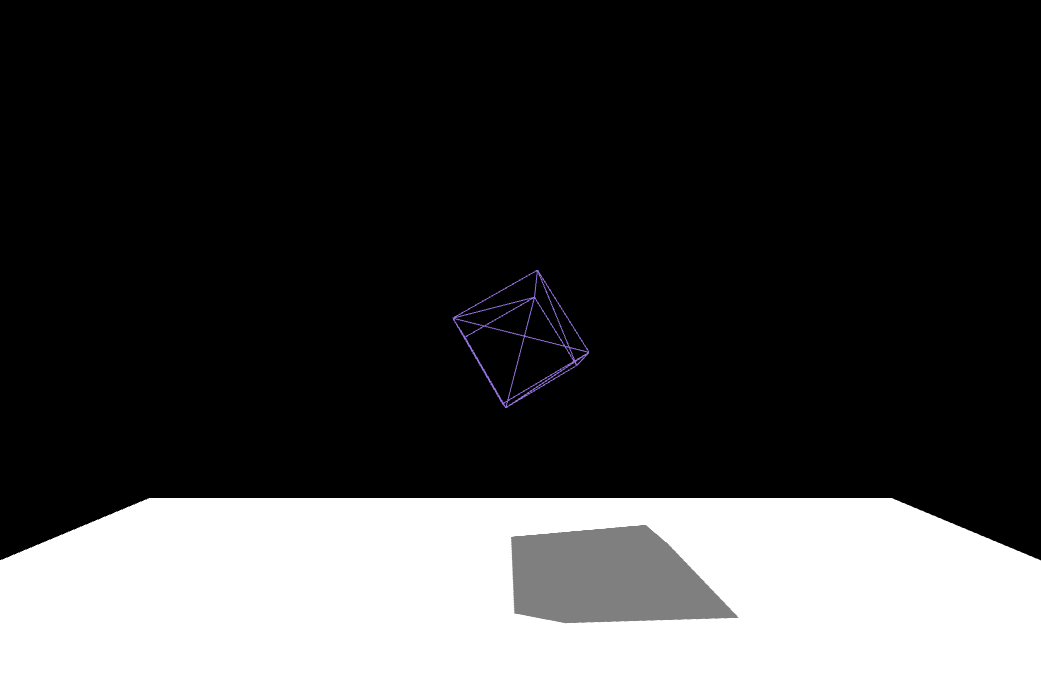
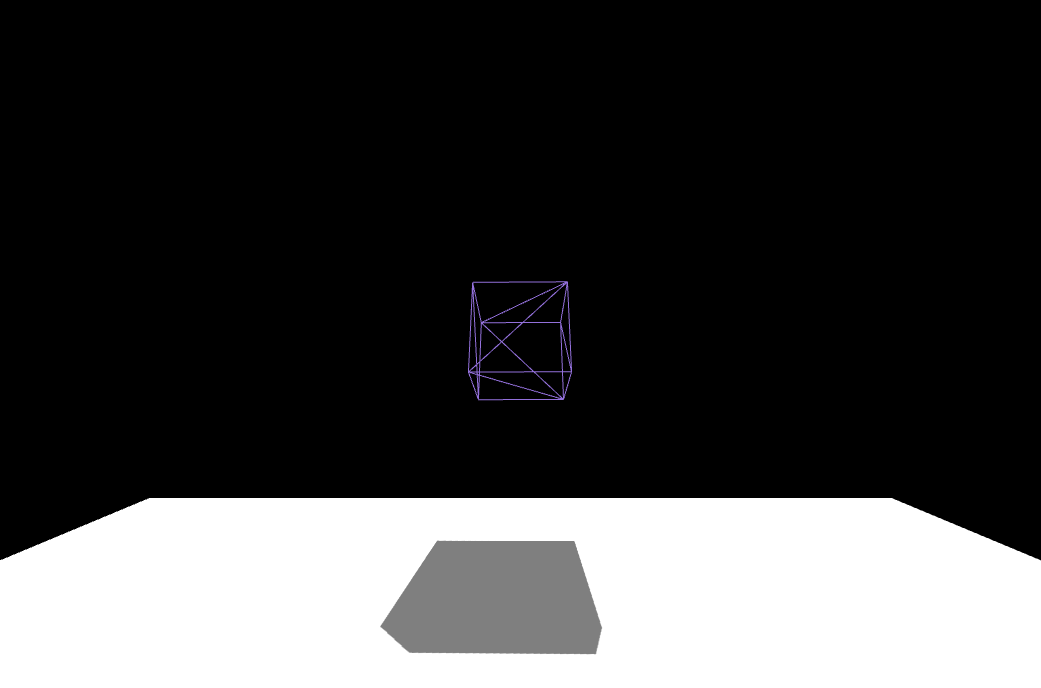
comparision done better

Changed region(s): [[0.3689, 0.7631, 0.707, 0.9767], [0.4304, 0.3968, 0.5841, 0.6105]]

diff --git a/assets/js/gl.js b/assets/js/gl.js
@@ -2,9 +2,11 @@ var x_from_tessel_A = 0.01;
 var y_from_tessel_A = 0.01;
 var x_from_tessel_B = 0.01;
 var y_from_tessel_B = 0.01;
+var z_from_tessel_B = 0.01;
 var prev_x = 0.01
 var prev_y = 0.01
-console.log("here");
+//window.message("here");
+
 
 var socket = io('http://localhost:8000');
 socket.on('t_data', function(data) {
@@ -32,6 +34,9 @@ socket.on('t_data', function(data) {
         if (data.message.y !== undefined) {
             y_from_tessel_B = data.message.y;
         }
+        if (data.message.z !== undefined) {
+            z_from_tessel_B = data.message.z;
+        }
     }
 
 
@@ -50,7 +55,8 @@ socket.on("sc-succ", function(data) {
 
 socket.on("win", function(data){
 	if (data.status === 1){
-		window.message = "asd";
+		window.alert("WELL DONE!!");
+		location.reload();
 	}
 });
 socket.emit('ping', {
@@ -189,10 +195,10 @@ var render = function() {
     //var angle	= Date.now()/1000 * Math.PI;
     // console.log("B",x_from_tessel_B);
     // console.log("A",x_from_tessel_A);
-    var prev_x_B = 0.01;
-    if (x_from_tessel_B !== prev_x_B) {
-        spotLight.position.x = x_from_tessel_B * Math.PI + spotLight.position.x;
-        prev_x_B = x_from_tessel_B;
+    var prev_z_B = 0.01;
+    if (z_from_tessel_B !== prev_z_B) {
+        spotLight.position.z = z_from_tessel_B * Math.PI + spotLight.position.z;
+        prev_z_B = z_from_tessel_B;
     }
 
     //    var angleY = y_from_tessel_B/1000 * Math.PI;

diff --git a/assets/js/plugins/socketio/index.js b/assets/js/plugins/socketio/index.js
@@ -75,12 +75,12 @@ exports.register = function(server, options, next) {
             	console.log(equality);
             	console.log(equality*100);
 
-            	// if ((equality*100) > 50 & (equality*100) <= 51.5){
-            	// 	console.log((equality*100) > 50 & (equality*100) <= 51.5);
-            	// 	socket.emit("win",{
-            	// 		status: 1
-            	// 	});
-            	// }
+            	if ((equality*100) > 50 & (equality*100) <= 52){
+            		console.log((equality*100) > 50 & (equality*100) <= 52);
+            		socket.emit("win",{
+            			status: 1
+            		});
+            	}
 
             });
             

diff --git a/assets/js/device/index.js b/assets/js/device/index.js
@@ -37,6 +37,7 @@ accelB.on('ready', function() {
             process.send({
                 x: xyz[0].toFixed(2),
                 y: xyz[1].toFixed(2),
+                z: xyz[2].toFixed(2),
                 port: "B"
             });
 
